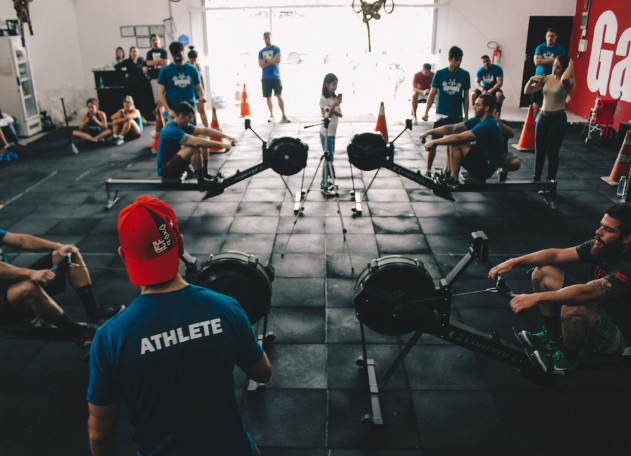
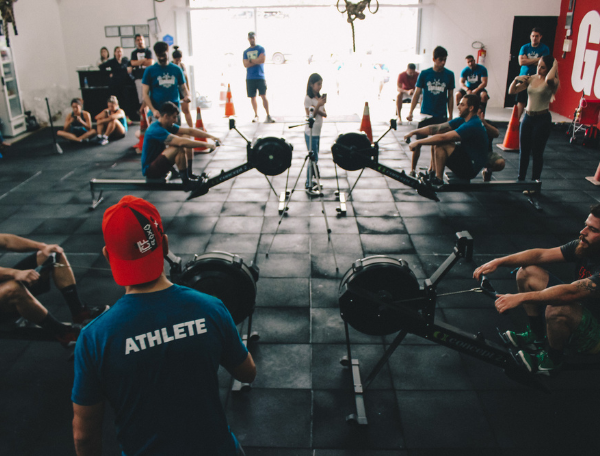
prototipo-margenresimagen

diff --git a/sass/estilos.scss b/sass/estilos.scss
@@ -133,7 +133,11 @@ body {
 
                 p {color: #fff;
                     margin: 2rem;}
-            }}}}      
+            }}}}   
+            
+            .imagen3 {
+                padding-left : 1rem;
+            }
 
             .quienessomos {
                 background-color: #061b08;

diff --git a/index.html b/index.html
@@ -90,7 +90,9 @@
 			</ul>
 		</section>
 
-	<section><img src="img/testimoño-3.png" alt=""></section>
+	<section class="imagen3">
+		<img src="img/testimoño-3.png" alt="gente que consume el producto">
+	</section>
 
 	<section class="quienessomos">
 		<div>

diff --git a/css/main.css b/css/main.css
@@ -105,6 +105,8 @@ body {
         body .testimonios ul li blockquote p {
           color: #fff;
           margin: 2rem; }
+  body .imagen3 {
+    padding-left: 1rem; }
   body .quienessomos {
     background-color: #061b08;
     padding: 20px; }
